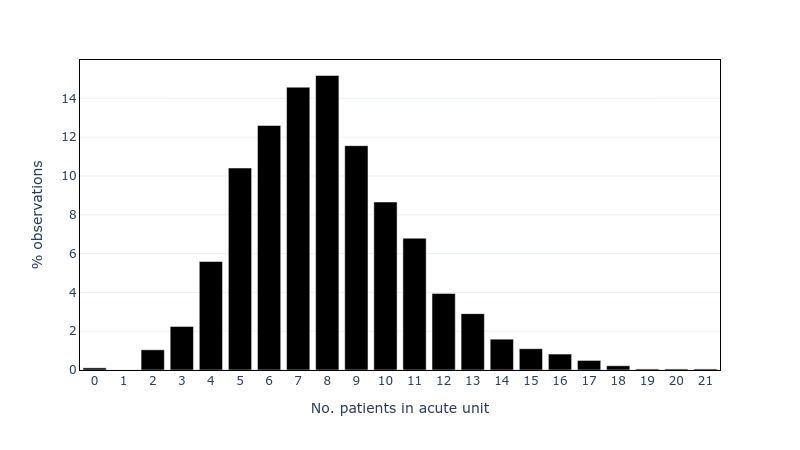
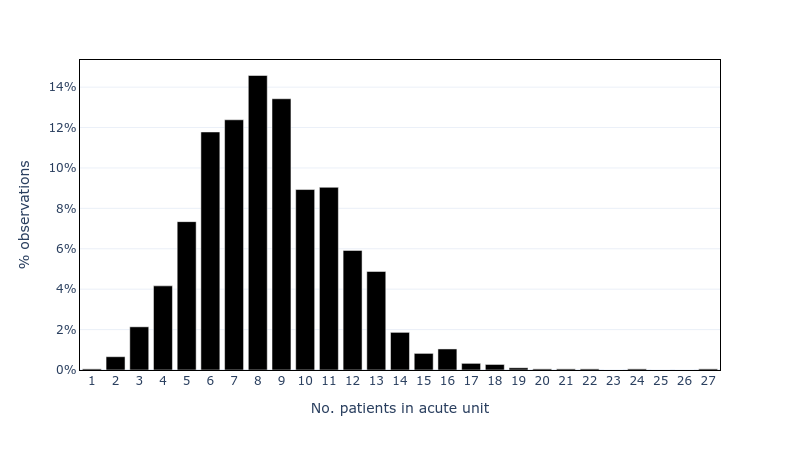
feat(warm-up): add warm-up and re-run analysis (adding % to y axis labels too)

diff --git a/simulation/model.py b/simulation/model.py
@@ -361,6 +361,18 @@ class Model:
             # Trigger next audit after desired interval has passed
             yield self.env.timeout(interval)
 
+    def warm_up(self):
+        """
+        If there is a warm-up period, then reset all results collection
+        variables once warm-up period has passed.
+        """
+        if self.param.warm_up_period > 0:
+            # Delay process until warm-up period has completed
+            yield self.env.timeout(self.param.warm_up_period)
+            # Reset results variables
+            self.patients = []
+            self.audit_list = []
+
     def run(self):
         """
         Run the simulation.
@@ -384,6 +396,9 @@ class Model:
         # Schedule the interval auditor to run during the simulation
         self.env.process(
             self.interval_audit(interval=self.param.audit_interval))
+
+        # Schedule process which will reset results when warm-up period ends
+        self.env.process(self.warm_up())
 
         # Run the simulation
         self.env.run(until=run_length)

diff --git a/simulation/parameters.py b/simulation/parameters.py
@@ -417,8 +417,8 @@ class Param(RestrictAttributes):
         rehab_los=RehabLOS(),
         asu_routing=ASURouting(),
         rehab_routing=RehabRouting(),
-        warm_up_period=0,
-        data_collection_period=365*5,
+        warm_up_period=365*3,  # 3 years
+        data_collection_period=365*5,  # 5 years
         audit_interval=1,
         log_to_console=False,
         log_to_file=False
